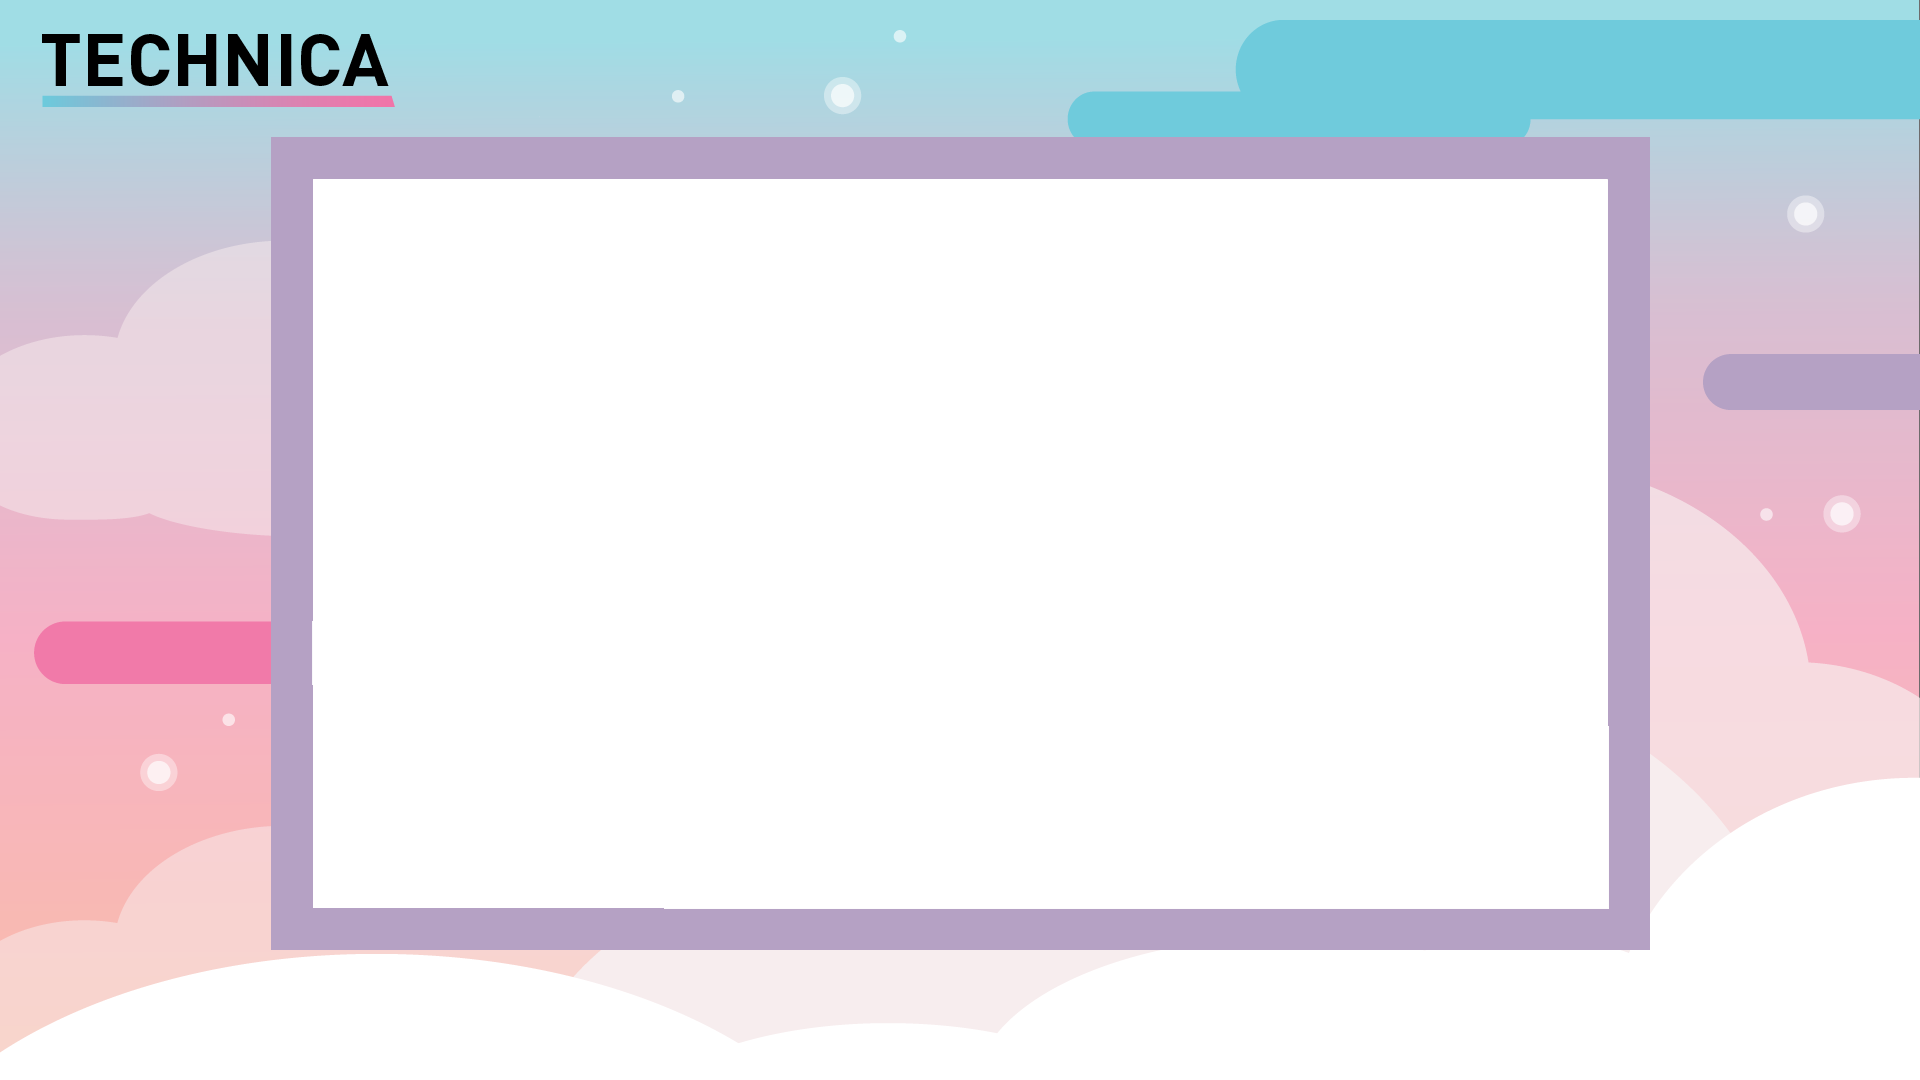
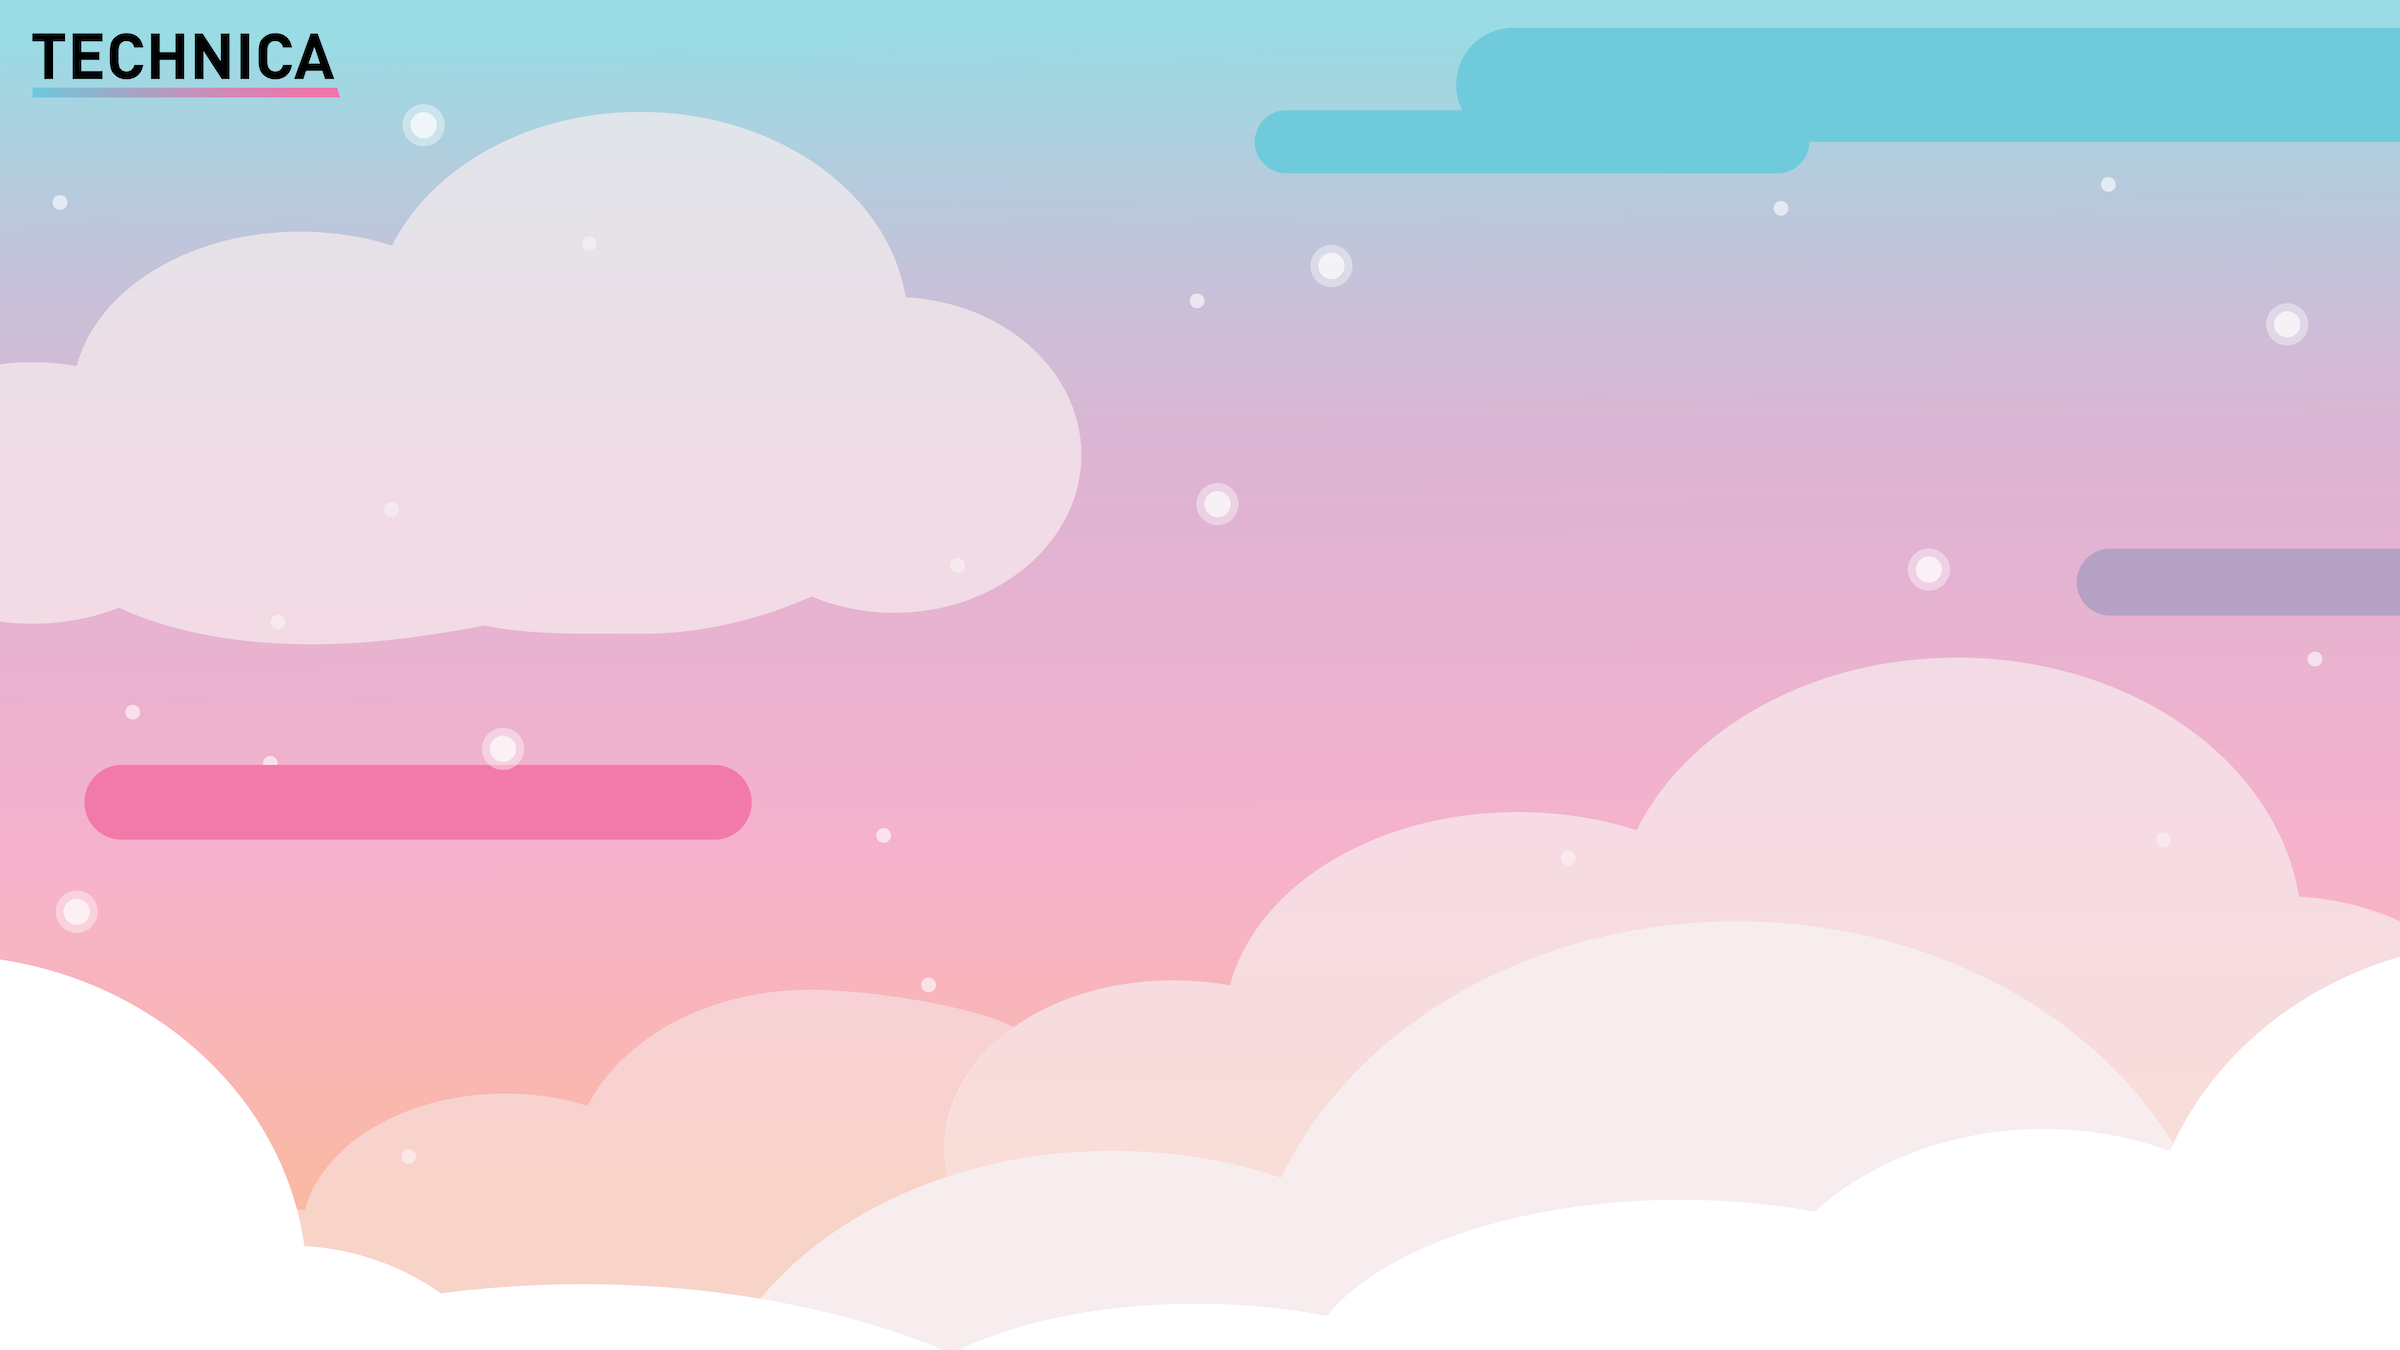
Add live stream embedded

diff --git a/frontend/src/config/general.js b/frontend/src/config/general.js
@@ -1,6 +1,7 @@
 export default {
   shared: {
     SAMPLE_ZOOM_LINK: 'https://us04web.zoom.us/j/9191971697?pwd=U1lPSUlJeElXQldCTkJwSnJOYjB4dz09',
+    LIVESTREAM_LINK: 'https://www.youtube.com/embed/5jPwFWIvBzk',
   },
   dev: {
     SCHEDULE_BASE_ENDPOINT: 'https://dxz39cp5d0.execute-api.us-east-1.amazonaws.com',
@@ -8,7 +9,6 @@ export default {
     SIGNUP_FORM_LINK: 'https://gotechnica.org',
     USERS_BASE_ENDPOINT: 'https://9zxvldglh9.execute-api.us-east-1.amazonaws.com',
     SPONSORS_INFO_ENDPOINT: 'https://4yngdno31k.execute-api.us-east-1.amazonaws.com',
-    LIVESTREAM_LINK: 'https://www.youtube.com/channel/UC-Wo4UqhGUKQEp4o-51VMIw',
     SPONSORSHIP_LINK: 'https://www.vfairs.com/',
     TEAMS_BASE_ENDPOINT: 'https://bqjydw3dzk.execute-api.us-east-1.amazonaws.com',
     PROJECTS_BASE_ENDPOINT: 'https://4yngdno31k.execute-api.us-east-1.amazonaws.com',
@@ -23,7 +23,6 @@ export default {
     SIGNUP_FORM_LINK: 'https://gotechnica.org',
     USERS_BASE_ENDPOINT: 'https://xgyrlul4tk.execute-api.us-east-1.amazonaws.com',
     SPONSORS_INFO_ENDPOINT: 'https://8cefcll545.execute-api.us-east-1.amazonaws.com',
-    LIVESTREAM_LINK: 'https://www.youtube.com/channel/UC-Wo4UqhGUKQEp4o-51VMIw',
     SPONSORSHIP_LINK: 'https://www.vfairs.com/',
     TEAMS_BASE_ENDPOINT: 'https://e2hezie6kb.execute-api.us-east-1.amazonaws.com',
     PROJECTS_BASE_ENDPOINT: 'https://8cefcll545.execute-api.us-east-1.amazonaws.com',
@@ -38,7 +37,6 @@ export default {
     SAMPLE_USER_ID: 'SAMPLE_USER_ID',
     SIGNUP_FORM_LINK: 'https://gotechnica.org',
     USERS_BASE_ENDPOINT: 'https://xhy30yrm0f.execute-api.us-east-1.amazonaws.com',
-    LIVESTREAM_LINK: 'https://www.youtube.com/channel/UC-Wo4UqhGUKQEp4o-51VMIw',
     SPONSORSHIP_LINK: 'https://www.vfairs.com/',
     PROJECTS_BASE_ENDPOINT: 'https://jxeehdxaq6.execute-api.us-east-1.amazonaws.com',
     TEAMS_BASE_ENDPOINT: 'https://c6vffjuklb.execute-api.us-east-1.amazonaws.com',
@@ -53,7 +51,6 @@ export default {
     SAMPLE_USER_ID: 'SAMPLE_USER_ID',
     SIGNUP_FORM_LINK: 'https://gotechnica.org',
     USERS_BASE_ENDPOINT: 'https://nc0gm7vx1i.execute-api.us-east-1.amazonaws.com',
-    LIVESTREAM_LINK: 'https://www.youtube.com/channel/UC-Wo4UqhGUKQEp4o-51VMIw',
     SPONSORSHIP_LINK: 'https://www.vfairs.com/',
     PROJECTS_BASE_ENDPOINT: 'https://phqk5kktqi.execute-api.us-east-1.amazonaws.com',
     TEAMS_BASE_ENDPOINT: ' https://v0usve1q3f.execute-api.us-east-1.amazonaws.com',

diff --git a/frontend/src/views/LiveStream.vue b/frontend/src/views/LiveStream.vue
@@ -1,12 +1,15 @@
 <template>
   <div class="page-container">
     <img src="@/assets/livestream.png" style="width: 100%; height: 100%;">
-    <iframe id="live-stream-wrapper" src="https://www.youtube.com/embed/5jPwFWIvBzk" frameborder="0" allow="accelerometer; autoplay; encrypted-media; gyroscope; picture-in-picture" allowfullscreen></iframe>
+    <div id="iframe-wrapper">
+      <iframe id="live-stream-wrapper" :src="liveStreamLink" frameBorder="0" allow="accelerometer; autoplay; encrypted-media; gyroscope; picture-in-picture" allowfullscreen></iframe>
+    </div>
   </div>
 </template>
 
 <script>
 import generalMixin from '../mixins/general';
+import Config from '../config/general';
 
 export default {
   name: 'LiveStream',
@@ -16,16 +19,39 @@ export default {
       this.$router.push({ name: 'Home' });
     },
   },
+  computed: {
+    liveStreamLink() {
+      return Config.shared.LIVESTREAM_LINK;
+    },
+  },
 };
 </script>
 
 <style scoped>
+  .live-stream-background {
+    z-index: 188;
+  }
   .page-container {
     width: 100vw;
     height: 90vh;
+    display: flex;
+    align-content: center;
+    justify-content: center;
+  }
+  #iframe-wrapper {
+    width: 70vw;
+    height: 60vh;
+    position: absolute;
+    align-self: center;
+    z-index: 1000;
+    border: 2rem solid var(--lighter-purple);
+    padding: 0;
+    padding-top: 0px;
+    margin-top: -1px;
   }
   #live-stream-wrapper {
-    width: 30vw;
-    height: 20vh;
+    width: 100.25%;
+    height: 100%;
+    margin-bottom: -1px;
   }
 </style>

diff --git a/frontend/src/assets/global.css b/frontend/src/assets/global.css
@@ -6,10 +6,10 @@
 	--pastel-purple: #A88AA8;
 	--pastel-pink: #EA668E;
 	--bright-purple: #B377DB;
+	--lighter-purple: #b5a1c4;
 	--bright-pink: #FF5091;
 	--light-purple: #DED2E5;
 	--light-pink: #F8D2E0;
-
 	--black: #2D2D2D;
 	--grey: #464343;
 	--light-grey: #8B8787;
